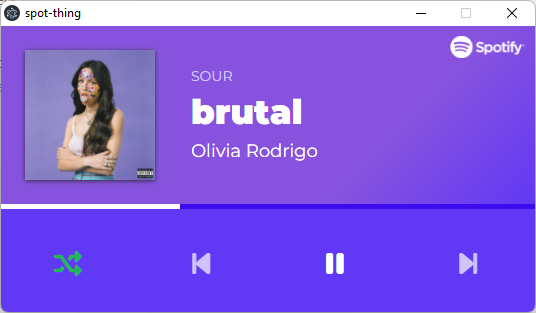
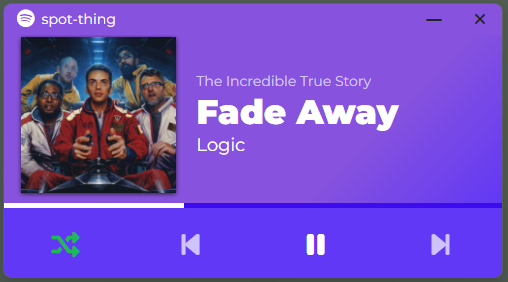
readme updates, styling tweaks
-updating readme with template
-adding new ui photo
-removing unused logo
-tweaking menu styling

diff --git a/css/spot-thing.css b/css/spot-thing.css
@@ -7908,9 +7908,11 @@ textarea.form-control-lg {
           font-weight: 400;
           font-size: 14px; }
         .spot-thing .titlebar .drag-region .window-title .dropdown-menu {
-          background-color: #783eda; }
+          background-color: #783eda;
+          border: 0px solid; }
           .spot-thing .titlebar .drag-region .window-title .dropdown-menu .dropdown-item {
-            color: #FFFFFF; }
+            color: #FFFFFF;
+            font-size: 14px; }
             .spot-thing .titlebar .drag-region .window-title .dropdown-menu .dropdown-item:hover {
               background: #8869f7; }
       .spot-thing .titlebar .drag-region .window-controls {
@@ -8011,11 +8013,6 @@ textarea.form-control-lg {
         overflow: hidden;
         line-height: 40px;
         cursor: pointer; }
-      .spot-thing .info .songContainer .logo {
-        width: 75px;
-        top: 42px;
-        right: 10px;
-        position: absolute; }
   .spot-thing .progressContainer {
     height: 5px; }
     .spot-thing .progressContainer .progress {

diff --git a/scss/style.scss b/scss/style.scss
@@ -48,9 +48,11 @@
 
 				.dropdown-menu {
 					background-color:darken($light-purple,5%);
+					border: 0px solid;
 
 					.dropdown-item {
 						color:$white;
+						font-size:14px;
 
 						&:hover {
 							background: lighten($purple,10%);
@@ -205,13 +207,6 @@
 				overflow:hidden;
 				line-height:40px;
 				cursor:pointer;
-			}
-
-			.logo {
-				width:75px;
-				top:42px;
-				right: 10px;
-				position:absolute;
 			}
 		}
 	}

diff --git a/spot-thing.html b/spot-thing.html
@@ -52,9 +52,6 @@
 							<div class="col-12 albumName" id="albumName">
 								The Incredible True Story
 							</div>
-							<div align="right" style="display:none;">
-								<img src="images/spotifyLogo.png" class="logo" alt="Spotify Logo" id="spotLogo">
-							</div>
 						</div>
 						<div class="row">
 							<input type="hidden" id="songURL" value="">

diff --git a/preload.js b/preload.js
@@ -105,11 +105,6 @@ window.addEventListener('DOMContentLoaded', () => {
 
 	});
 
-	// Show about overlay
-	$("#spotLogo").click(function() {
-		$('#about').show();
-	});
-
 	// Close about overlay
 	$('#aboutClose').click(function() {
 		$('#about').hide();

diff --git a/README.md b/README.md
@@ -1,16 +1,213 @@
-# spot-thing
-A small player for Spotify.
+<div id="top"></div>
 
-```
-npm install
+[![Contributors][contributors-shield]][contributors-url]
+[![Forks][forks-shield]][forks-url]
+[![Stargazers][stars-shield]][stars-url]
+[![Issues][issues-shield]][issues-url]
+[![MIT License][license-shield]][license-url]
+[![LinkedIn][linkedin-shield]][linkedin-url]
 
-useful links 
-https://github.com/thelinmichael/spotify-web-api-node
-https://developer.spotify.com/dashboard/applications/cda49a979d894afaaa13b9975b773cf9
-https://developer.spotify.com/documentation/general/guides/authorization/
-https://developer.spotify.com/documentation/general/guides/authorization/scopes/
-https://developer.spotify.com/documentation/general/design-and-branding/
 
-```
 
-![currentUI](images/currentUI.png)
+<!-- PROJECT LOGO -->
+<br />
+<div align="center">
+  <a href="https://github.com/devinbergin/spot-thing">
+    <img src="images/logo.png" alt="Logo" width="80" height="80">
+  </a>
+
+<h3 align="center">spot-thing</h3>
+
+  <p align="center">
+    A small player for spotify.
+    <br />
+    <a href="https://github.com/devinbergin/spot-thing"><strong>Explore the docs »</strong></a>
+    <br />
+    <br />
+    <a href="https://github.com/devinbergin/spot-thing">View Demo</a>
+    ·
+    <a href="https://github.com/devinbergin/spot-thing/issues">Report Bug</a>
+    ·
+    <a href="https://github.com/devinbergin/spot-thing/issues">Request Feature</a>
+  </p>
+</div>
+
+
+
+<!-- TABLE OF CONTENTS -->
+<details>
+  <summary>Table of Contents</summary>
+  <ol>
+    <li>
+      <a href="#about-the-project">About The Project</a>
+      <ul>
+        <li><a href="#built-with">Built With</a></li>
+      </ul>
+    </li>
+    <li>
+      <a href="#getting-started">Getting Started</a>
+      <ul>
+        <li><a href="#prerequisites">Prerequisites</a></li>
+        <li><a href="#installation">Installation</a></li>
+      </ul>
+    </li>
+    <li><a href="#usage">Usage</a></li>
+    <li><a href="#roadmap">Roadmap</a></li>
+    <li><a href="#contributing">Contributing</a></li>
+    <li><a href="#license">License</a></li>
+    <li><a href="#contact">Contact</a></li>
+    <li><a href="#acknowledgments">Acknowledgments</a></li>
+  </ol>
+</details>
+
+
+
+<!-- ABOUT THE PROJECT -->
+## About The Project
+
+[![Product Name Screen Shot][product-screenshot]](https://example.com)
+
+Here's a blank template to get started: To avoid retyping too much info. Do a search and replace with your text editor for the following: `github_username`, `repo_name`, `twitter_handle`, `linkedin_username`, `email_client`, `email`, `project_title`, `project_description`
+
+<p align="right">(<a href="#top">back to top</a>)</p>
+
+
+
+### Built With
+
+* [Next.js](https://nextjs.org/)
+* [React.js](https://reactjs.org/)
+* [Vue.js](https://vuejs.org/)
+* [Angular](https://angular.io/)
+* [Svelte](https://svelte.dev/)
+* [Laravel](https://laravel.com)
+* [Bootstrap](https://getbootstrap.com)
+* [JQuery](https://jquery.com)
+
+<p align="right">(<a href="#top">back to top</a>)</p>
+
+
+
+<!-- GETTING STARTED -->
+## Getting Started
+
+This is an example of how you may give instructions on setting up your project locally.
+To get a local copy up and running follow these simple example steps.
+
+### Prerequisites
+
+This is an example of how to list things you need to use the software and how to install them.
+* npm
+  ```sh
+  npm install npm@latest -g
+  ```
+
+### Installation
+
+1. Get a free API Key at [https://example.com](https://example.com)
+2. Clone the repo
+   ```sh
+   git clone https://github.com/devinbergin/spot-thing.git
+   ```
+3. Install NPM packages
+   ```sh
+   npm install
+   ```
+4. Enter your API in `config.js`
+   ```js
+   const API_KEY = 'ENTER YOUR API';
+   ```
+
+<p align="right">(<a href="#top">back to top</a>)</p>
+
+
+
+<!-- USAGE EXAMPLES -->
+## Usage
+
+Use this space to show useful examples of how a project can be used. Additional screenshots, code examples and demos work well in this space. You may also link to more resources.
+
+_For more examples, please refer to the [Documentation](https://example.com)_
+
+<p align="right">(<a href="#top">back to top</a>)</p>
+
+
+
+<!-- ROADMAP -->
+## Roadmap
+
+- [ ] Feature 1
+- [ ] Feature 2
+- [ ] Feature 3
+    - [ ] Nested Feature
+
+See the [open issues](https://github.com/devinbergin/spot-thing/issues) for a full list of proposed features (and known issues).
+
+<p align="right">(<a href="#top">back to top</a>)</p>
+
+
+
+<!-- CONTRIBUTING -->
+## Contributing
+
+Contributions are what make the open source community such an amazing place to learn, inspire, and create. Any contributions you make are **greatly appreciated**.
+
+If you have a suggestion that would make this better, please fork the repo and create a pull request. You can also simply open an issue with the tag "enhancement".
+Don't forget to give the project a star! Thanks again!
+
+1. Fork the Project
+2. Create your Feature Branch (`git checkout -b feature/AmazingFeature`)
+3. Commit your Changes (`git commit -m 'Add some AmazingFeature'`)
+4. Push to the Branch (`git push origin feature/AmazingFeature`)
+5. Open a Pull Request
+
+<p align="right">(<a href="#top">back to top</a>)</p>
+
+
+
+<!-- LICENSE -->
+## License
+
+Distributed under the MIT License. See `LICENSE.txt` for more information.
+
+<p align="right">(<a href="#top">back to top</a>)</p>
+
+
+
+<!-- CONTACT -->
+## Contact
+
+Your Name - [@twitter_handle](https://twitter.com/twitter_handle) - email@email_client.com
+
+Project Link: [https://github.com/devinbergin/spot-thing](https://github.com/devinbergin/spot-thing)
+
+<p align="right">(<a href="#top">back to top</a>)</p>
+
+
+
+<!-- ACKNOWLEDGMENTS -->
+## Acknowledgments
+
+* []()
+* []()
+* []()
+
+<p align="right">(<a href="#top">back to top</a>)</p>
+
+
+
+<!-- MARKDOWN LINKS & IMAGES -->
+<!-- https://www.markdownguide.org/basic-syntax/#reference-style-links -->
+[contributors-shield]: https://img.shields.io/github/contributors/github_username/repo_name.svg?style=for-the-badge
+[contributors-url]: https://github.com/devinbergin/spot-thing/graphs/contributors
+[forks-shield]: https://img.shields.io/github/forks/github_username/repo_name.svg?style=for-the-badge
+[forks-url]: https://github.com/devinbergin/spot-thing/network/members
+[stars-shield]: https://img.shields.io/github/stars/github_username/repo_name.svg?style=for-the-badge
+[stars-url]: https://github.com/devinbergin/spot-thing/stargazers
+[issues-shield]: https://img.shields.io/github/issues/github_username/repo_name.svg?style=for-the-badge
+[issues-url]: https://github.com/devinbergin/spot-thing/issues
+[license-shield]: https://img.shields.io/github/license/github_username/repo_name.svg?style=for-the-badge
+[license-url]: https://github.com/devinbergin/spot-thing/blob/master/LICENSE.txt
+[linkedin-shield]: https://img.shields.io/badge/-LinkedIn-black.svg?style=for-the-badge&logo=linkedin&colorB=555
+[linkedin-url]: https://linkedin.com/in/devinbergin
+[product-screenshot]: images/currentUI.png
